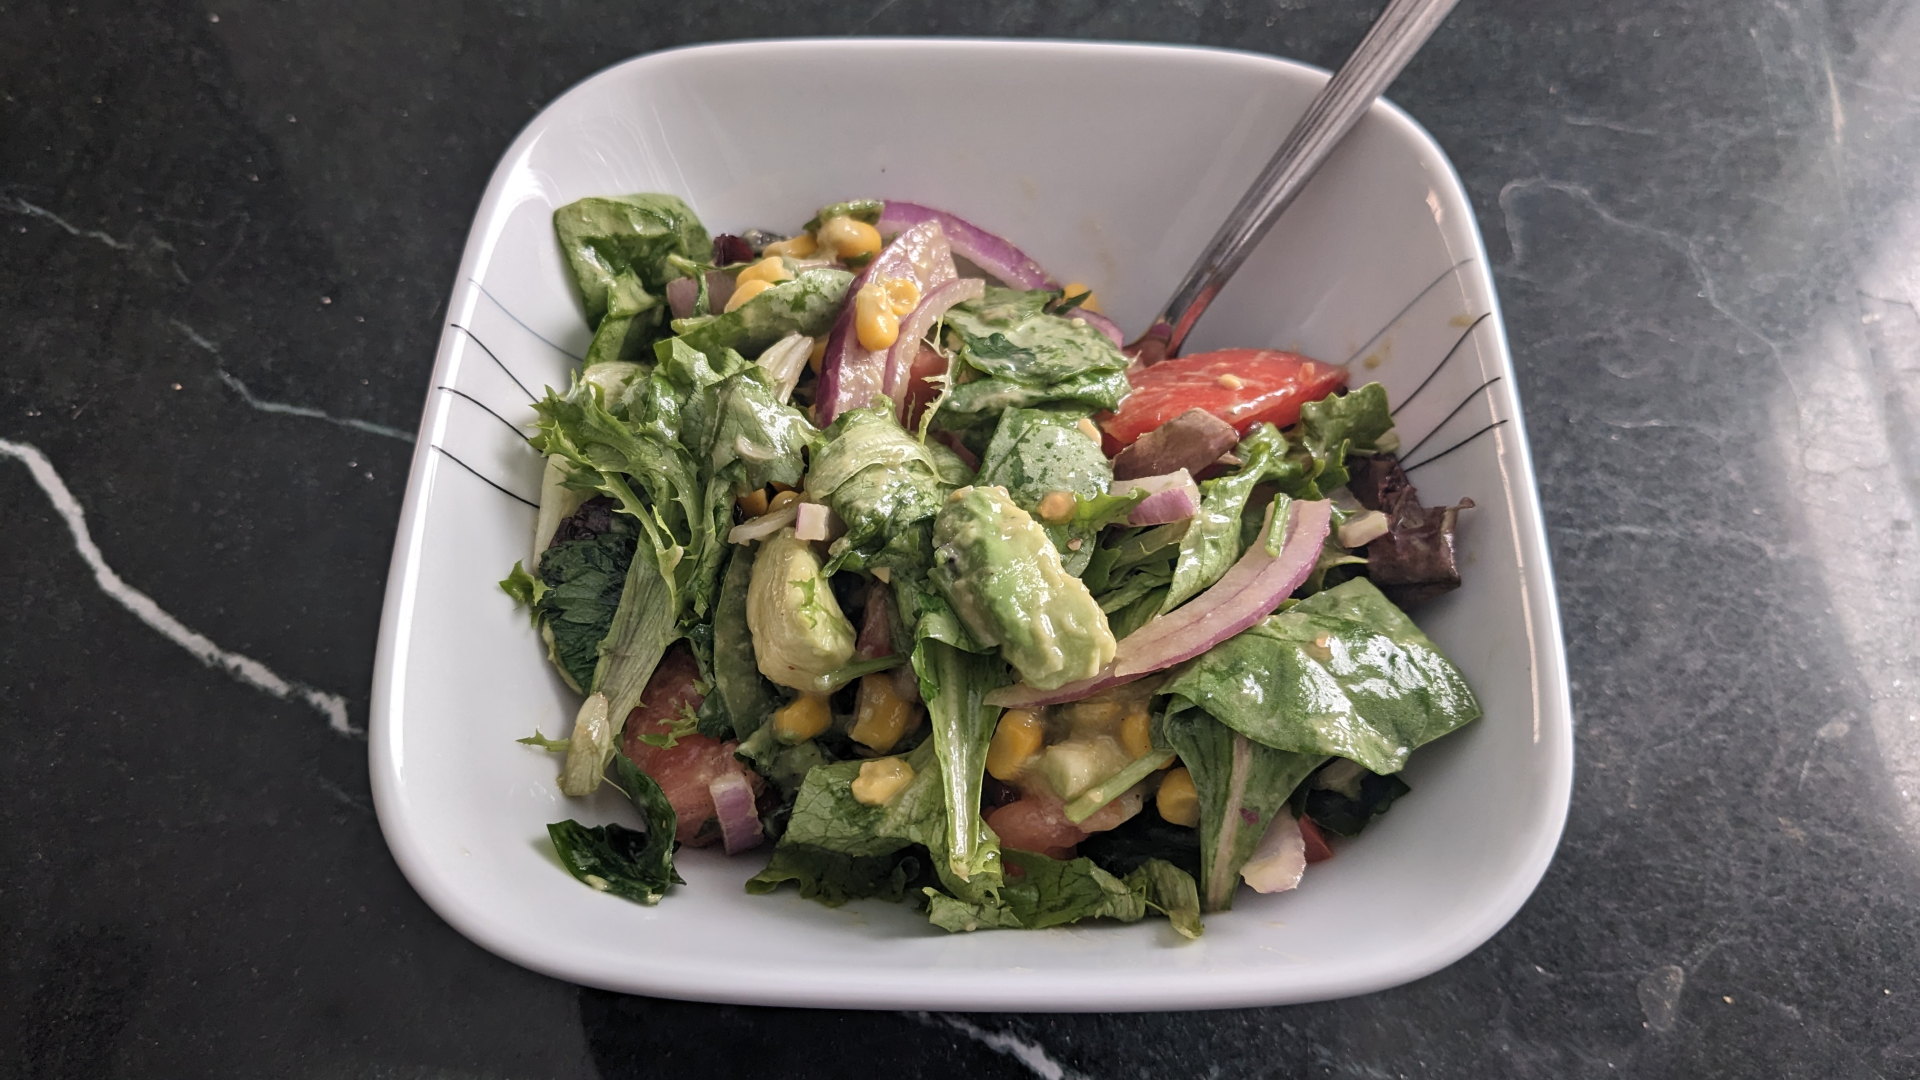
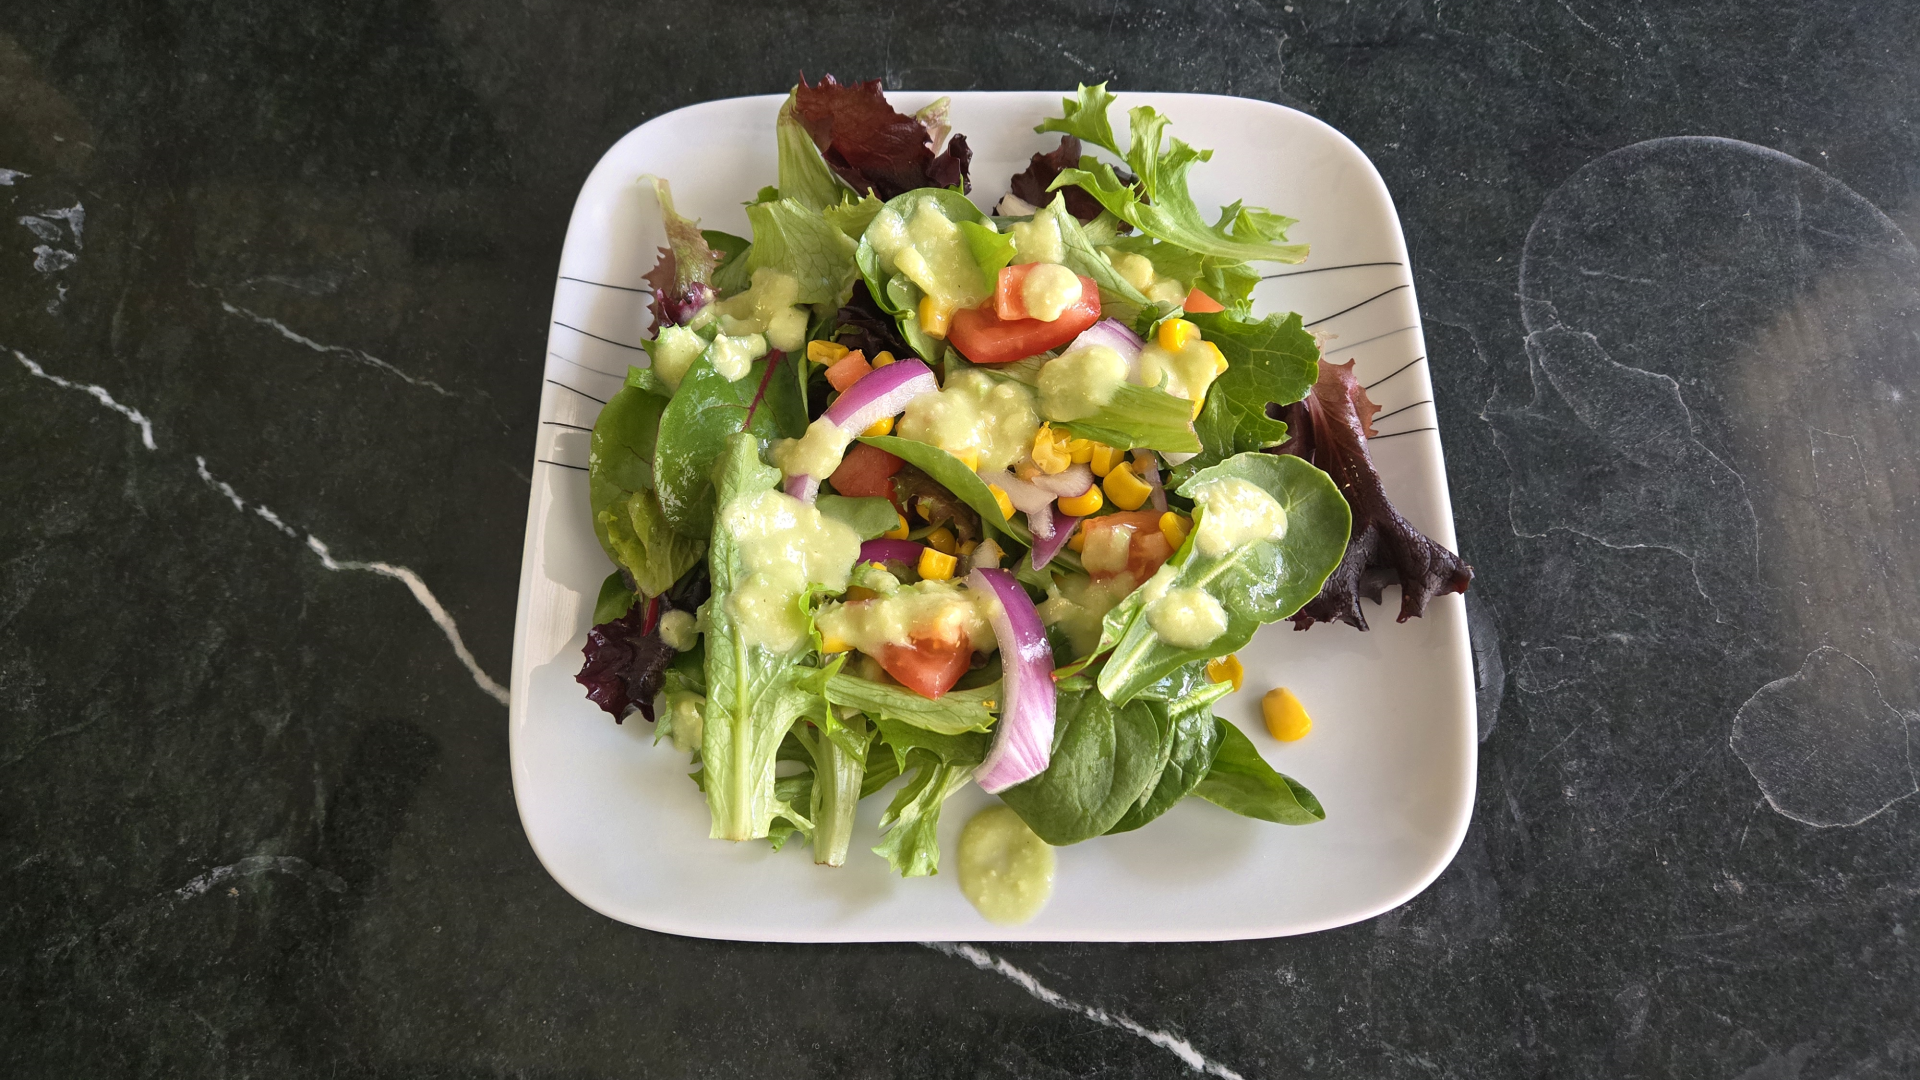
(#28) Adjust lucky colorful salad recipe

diff --git a/src/recipes/lucky-colorful-salad/recipe.md b/src/recipes/lucky-colorful-salad/recipe.md
@@ -21,22 +21,24 @@ Simple avocado and onion salad that's very quick to prep.
 
 | Ingredient           | Quantity       | Rarity | Type      |
 | -------------------- | -------------- | ------ | --------- |
-| Avocado (under-ripe) | 2              | 1      | Vegetable |
 | Red Onion (sliced)   | 1/2            | 1      | Vegetable |
 | Tomato (cubed)       | 2              | 1      | Vegetable |
-| Lime                 | 2              | 1      | Fruit     |
 | Baby Lettuce Mix     | 5 oz           | 1      | Vegetable |
 | Whole Kernel Corn    | 8 oz           | 1      | Vegetable |
 | Extra Virgin Olive Oil | 1 tablespoon | 2      | Oil       |
-| Black Pepper         | 1 teaspoon     | 1      | Spice     |
+| Avocado (ripe)       | 1              | 1      | Vegetable |
+| Lime Juice           | 3 tablespoons  | 1      | Fruit     |
+| Water                | 3/4 cup        | 1      | Liquid    |
+| Salt                 | 1/2 teaspoon   | 1      | Spice     |
+| Black Pepper         | 1/2 teaspoon   | 1      | Spice     |
+| Garlic Powder        | 1/2 teaspoon   | 1      | Spice     |
 
 ## Directions
 
-1. Prepare the vegetables: cut the red onion into thin slices, cube the tomatoes, and cut the avocado into bite-sized chunks. As a tip, the avocado is best when slightly under-ripe. [Red Onion: 1/2, Tomatoes: 2, Avocados (under-ripe): 2]
-2. Drain the corn. [Corn: 8 oz]
-3. Toss together the lettuce, avocado, red onion, tomato, corn, and black pepper. [Lettuce: 5oz, Avocados (sliced): 2, Red Onions (sliced): 1/2, Tomatoes (cubed): 2, Corn: 8 oz]
-4. In a separate bowl, juice the limes. Add the extra virgin olive oil and mix thoroughly. [Limes: 2, Extra Virgin Olive Oil: 1 tablespoon]
-5. Dress the salad with the lime and enjoy this simple recipe!
+1. Make the dressing: Combine the avocado, water, olive oil, lime juice, garlic powder, salt, and black pepper in a blender. Blend until creamy. The avocado is best when ripened. [Extra Virgin Olive Oil: 1 tablespoon, Avocado (ripe): 1, Lime Juice: 3 tablespoons, Water: 3/4 cup, Salt: 1/2 teaspoon; Black Pepper: 1/2 teaspoon, Garlic Powder: 1/2 teaspoon]
+2. Prepare the vegetables: cut the red onion into thin slices, cube the tomatoes, and drain the corn. [Red Onion: 1/2, Tomatoes: 2, Corn: 8 oz]
+3. Toss together the lettuce, red onion, tomato, and corn. [Lettuce: 5 oz, Avocados (sliced): 2, Red Onions (sliced): 1/2, Tomatoes (cubed): 2, Corn: 8 oz]
+4. Dress the salad with the avocado dressing from step 1, and enjoy this simple recipe!
 
 ## Interpretation
 
@@ -51,3 +53,4 @@ We use lime to emulate the sour flavor of Alrest's Sour Avocados. Besides that, 
 ## References
 
 * https://www.simplyrecipes.com/recipes/tomato_onion_avocado_salad/
+* https://www.loveandlemons.com/avocado-dressing/
